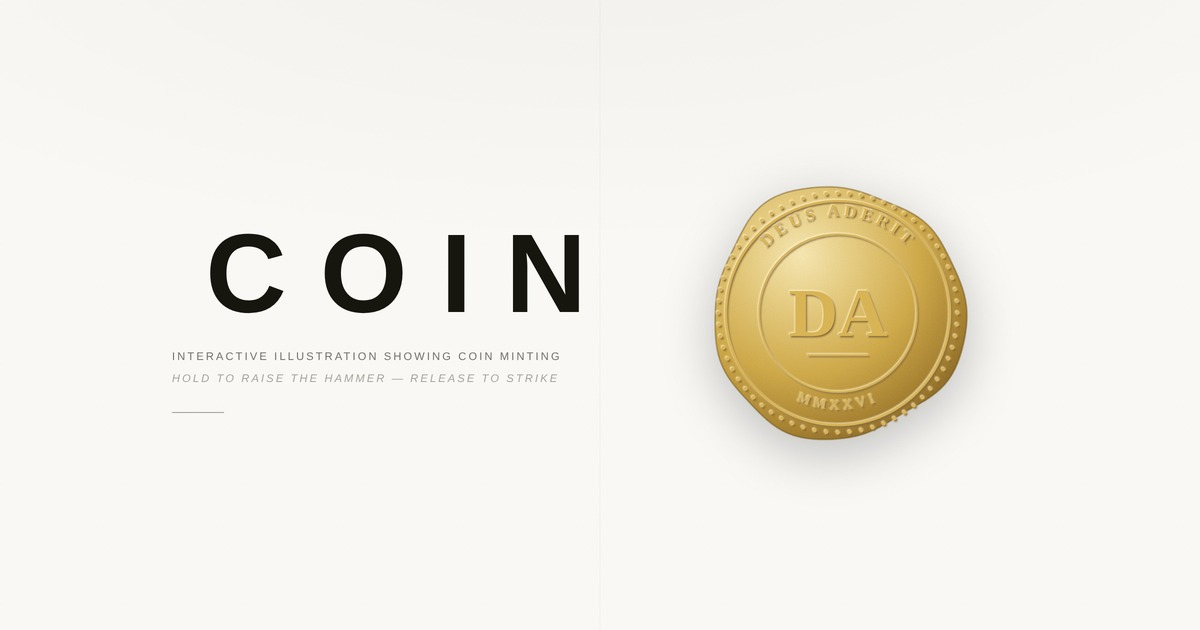
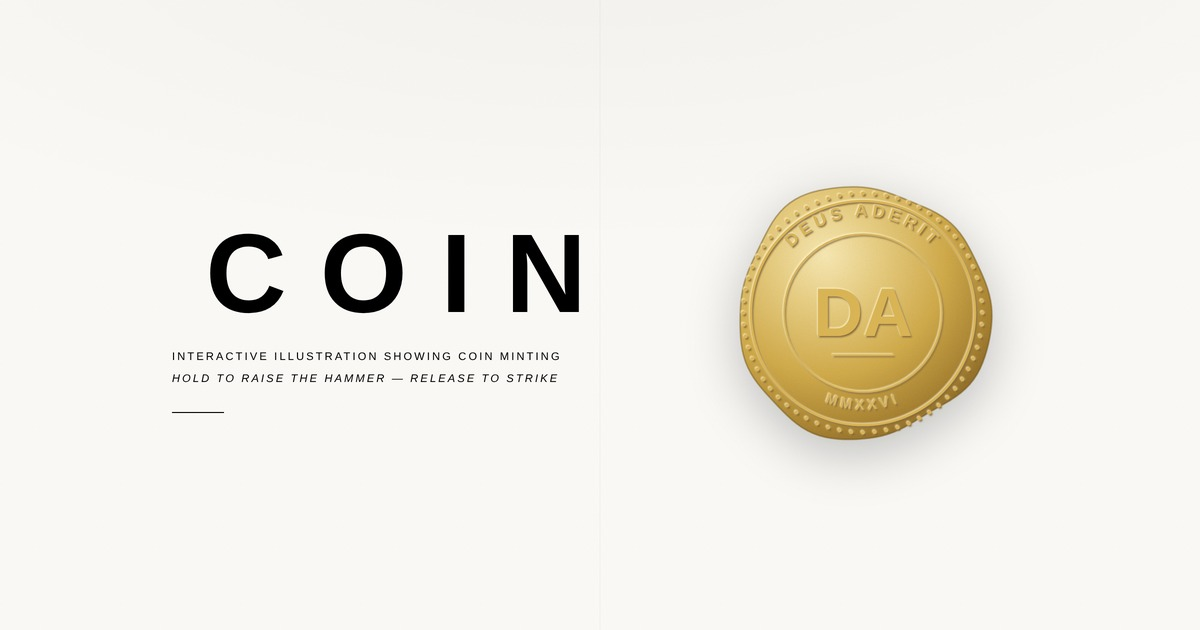
coin: helvetica caps, pure black, no greys

Changed region(s): [[0.5858, 0.2714, 0.8325, 0.7238], [0.1542, 0.5429, 0.4625, 0.6032]]

diff --git a/YELLOW BOX/coin/index.html b/YELLOW BOX/coin/index.html
@@ -19,8 +19,8 @@
 *{box-sizing:border-box;margin:0;padding:0}
 :root{
   --wall:#faf9f6; --wall2:#f2f1ec;
-  --ink:#16160f; --dim:#75736a; --faint:#a8a59c;
-  --line:#16160f;
+  --ink:#000; --dim:#000; --faint:#000;
+  --line:#000;
   --gold-d:#7a5a1c; --gold-m:#d9b455; --gold-h:#fdf3cd;
 }
 html,body{height:100%}
@@ -43,7 +43,7 @@ header{text-align:center;margin-bottom:16px}
 h1{font-size:clamp(46px,9vw,104px);font-weight:700;letter-spacing:.30em;
    text-indent:.30em;line-height:1;margin-bottom:16px}
 .sub{font-size:11px;letter-spacing:.20em;text-transform:uppercase;color:var(--dim);line-height:2}
-.sub em{font-style:italic;color:var(--faint)}
+.sub em{font-style:italic;color:#000}
 .hr{width:52px;height:1px;background:var(--faint);margin:22px auto 0}
 
 /* ---------- layout ---------- */
@@ -61,11 +61,11 @@ h1{font-size:clamp(46px,9vw,104px);font-weight:700;letter-spacing:.30em;
 /* svg primitives */
 .ln{fill:none;stroke:var(--line);stroke-width:1.4;stroke-linejoin:round;stroke-linecap:round}
 .ln.thin{stroke-width:.9}
-.hatch{stroke:var(--line);stroke-width:.55;opacity:.5}
-.lead{stroke:var(--line);stroke-width:.7;opacity:.6;fill:none}
-.lab{fill:var(--ink);font-size:10.5px;letter-spacing:.16em;text-transform:uppercase;
-     font-family:inherit;opacity:.92}
-.tick{fill:var(--ink);opacity:.8}
+.hatch{stroke:#000;stroke-width:.5;opacity:1}
+.lead{stroke:#000;stroke-width:.8;opacity:1;fill:none}
+.lab{fill:#000;font-size:10.5px;letter-spacing:.16em;text-transform:uppercase;
+     font-family:inherit;opacity:1}
+.tick{fill:#000;opacity:1}
 
 #hammer{transform-box:fill-box;transform-origin:88% 62%;
         transition:transform .34s cubic-bezier(.22,.61,.36,1)}
@@ -76,9 +76,9 @@ h1{font-size:clamp(46px,9vw,104px);font-weight:700;letter-spacing:.30em;
 @keyframes spk{0%{opacity:1;transform:scale(.2)}100%{opacity:0;transform:scale(1.25)}}
 
 /* ---------- right column ---------- */
-.panel{border-left:1px solid rgba(22,22,15,.14);padding-left:26px}
+.panel{border-left:1px solid #000;padding-left:26px}
 @media (max-width:900px){.panel{border-left:0;padding-left:0;
-  border-top:1px solid rgba(22,22,15,.14);padding-top:30px}}
+  border-top:1px solid #000;padding-top:30px}}
 @media (max-width:900px){
   .wrap{padding:30px 22px 120px}
   .sub{font-size:10px;letter-spacing:.14em}
@@ -89,29 +89,29 @@ h1{font-size:clamp(46px,9vw,104px);font-weight:700;letter-spacing:.30em;
     margin:0;padding:20px 14px;background:rgba(250,249,246,.94);
     -webkit-backdrop-filter:blur(10px);backdrop-filter:blur(10px);
     box-shadow:0 -6px 26px rgba(0,0,0,.10)}
-  .strike.charging{background:rgba(22,22,15,.09)}
+  .strike.charging{background:#000}
   .acts{margin-top:26px}
   .caption{margin-bottom:40px}
 }
 .plabel{font-size:10px;letter-spacing:.2em;text-transform:uppercase;color:var(--dim);margin-bottom:11px}
 
-input[type=text]{width:100%;background:transparent;border:0;border-bottom:1px solid rgba(22,22,15,.3);
+input[type=text]{width:100%;background:transparent;border:0;border-bottom:1px solid #000;
   color:var(--ink);font-family:inherit;font-size:19px;letter-spacing:.13em;text-transform:uppercase;
   padding:7px 0 9px;outline:none;transition:border-color .25s}
 input[type=text]:focus{border-color:var(--ink)}
 input[type=text]::placeholder{color:var(--faint);letter-spacing:.13em}
 
 /* portrait control */
-.drop{display:block;margin-top:22px;border:1px dashed rgba(22,22,15,.28);padding:16px 14px;text-align:center;
+.drop{display:block;margin-top:22px;border:1px dashed #000;padding:16px 14px;text-align:center;
   cursor:pointer;transition:.22s;font-size:9.5px;letter-spacing:.18em;text-transform:uppercase;color:var(--dim)}
-.drop:hover,.drop.over{border-color:var(--ink);color:var(--ink);background:rgba(22,22,15,.05)}
+.drop:hover,.drop.over{border-color:var(--ink);color:var(--ink);background:transparent}
 .drop input{display:none}
 .pctl{margin-top:14px;display:none}
 .pctl.on{display:block}
 .prow{display:flex;align-items:center;gap:12px;font-size:9.5px;letter-spacing:.18em;
   text-transform:uppercase;color:var(--dim)}
 .prow input[type=range]{flex:1;-webkit-appearance:none;appearance:none;height:2px;
-  background:rgba(22,22,15,.2);outline:none;cursor:pointer}
+  background:rgba(0,0,0,.2);outline:none;cursor:pointer}
 .prow input[type=range]::-webkit-slider-thumb{-webkit-appearance:none;width:12px;height:12px;
   border-radius:50%;background:var(--ink);cursor:pointer}
 .prow input[type=range]::-moz-range-thumb{width:12px;height:12px;border:0;border-radius:50%;background:var(--ink)}
@@ -132,29 +132,29 @@ input[type=text]::placeholder{color:var(--faint);letter-spacing:.13em}
 .meter{margin-top:26px}
 .mrow{display:flex;justify-content:space-between;font-size:9.5px;letter-spacing:.18em;
       text-transform:uppercase;color:var(--dim);margin-bottom:7px}
-.bar{height:2px;background:rgba(22,22,15,.16);position:relative;overflow:hidden}
+.bar{height:7px;border:1px solid #000;background:transparent;position:relative;overflow:hidden}
 .bar i{position:absolute;inset:0 auto 0 0;width:0;background:var(--ink);display:block}
 #force i{transition:width .05s linear}
 #relief i{transition:width .45s cubic-bezier(.2,.8,.2,1)}
 
 .strike{margin-top:26px;width:100%;padding:19px 16px;background:transparent;
-  border:1px solid rgba(22,22,15,.35);color:var(--ink);font-family:inherit;
+  border:1px solid #000;color:var(--ink);font-family:inherit;
   font-size:11px;letter-spacing:.22em;text-transform:uppercase;cursor:pointer;
   transition:.22s;user-select:none;-webkit-user-select:none;touch-action:none}
-.strike:hover{border-color:var(--ink);background:rgba(22,22,15,.05)}
-.strike.charging{background:rgba(22,22,15,.11);border-color:var(--ink)}
-.strike[disabled]{opacity:.4;cursor:default}
+.strike:hover{border-color:var(--ink);background:transparent}
+.strike.charging{background:#000;border-color:var(--ink)}
+.strike[disabled]{cursor:default;background:#000;color:#faf9f6;border-color:#000}
 
 .acts{margin-top:16px;display:flex;gap:10px}
-.acts button{flex:1;padding:13px 10px;background:transparent;border:1px solid rgba(22,22,15,.22);
+.acts button{flex:1;padding:13px 10px;background:transparent;border:1px solid #000;
   color:var(--dim);font-family:inherit;font-size:9.5px;letter-spacing:.18em;text-transform:uppercase;
   cursor:pointer;transition:.22s}
-.acts button:hover{color:var(--ink);border-color:rgba(22,22,15,.5)}
-.hint{margin-top:16px;font-size:10px;letter-spacing:.1em;color:var(--faint);line-height:1.9}
+.acts button:hover{color:var(--ink);border-color:rgba(0,0,0,.5)}
+.hint{margin-top:16px;font-size:9.5px;letter-spacing:.14em;text-transform:uppercase;color:#000;line-height:2}
 
 .caption{margin-top:54px;text-align:center;font-size:10.5px;letter-spacing:.17em;
   text-transform:uppercase;color:var(--dim);line-height:2.1}
-.caption em{font-style:italic;color:var(--faint);text-transform:none;letter-spacing:.06em}
+.caption em{font-style:italic;color:#000;text-transform:uppercase;letter-spacing:.14em}
 
 .done{opacity:0;transition:opacity .5s;font-size:10px;letter-spacing:.24em;
   text-transform:uppercase;color:var(--ink);margin-top:14px}
@@ -182,7 +182,7 @@ input[type=text]::placeholder{color:var(--faint);letter-spacing:.13em}
         <line x1="0" y1="0" x2="0" y2="6" class="hatch"/>
       </pattern>
       <pattern id="steel2" width="3.4" height="3.4" patternUnits="userSpaceOnUse" patternTransform="rotate(48)">
-        <line x1="0" y1="0" x2="0" y2="3.4" class="hatch" opacity=".75"/>
+        <line x1="0" y1="0" x2="0" y2="3.4" class="hatch"/>
       </pattern>
     </defs>
 
@@ -190,13 +190,13 @@ input[type=text]::placeholder{color:var(--faint);letter-spacing:.13em}
     <g id="hammer">
       <!-- handle -->
       <path class="ln" d="M347 84 L497 27 L503 44 L353 101 Z"/>
-      <rect x="360" y="60" width="140" height="26" fill="url(#wood)" opacity=".5"
+      <rect x="360" y="60" width="140" height="26" fill="url(#wood)"
             transform="rotate(-21 360 60)"/>
       <!-- head -->
       <path class="ln" d="M252 62 L350 62 L350 120 L252 120 Z"/>
       <path class="ln" d="M252 62 L262 55 L360 55 L350 62"/>
       <path class="ln" d="M350 62 L360 55 L360 113 L350 120"/>
-      <rect x="256" y="66" width="90" height="50" fill="url(#steel)" opacity=".55"/>
+      <rect x="256" y="66" width="90" height="50" fill="url(#steel)"/>
       <!-- striking face -->
       <path class="ln thin" d="M258 116 L344 116"/>
     </g>
@@ -214,12 +214,12 @@ input[type=text]::placeholder{color:var(--faint);letter-spacing:.13em}
       <ellipse class="ln" cx="300" cy="152" rx="33" ry="9"/>
       <path class="ln" d="M267 152 L267 366"/>
       <path class="ln" d="M333 152 L333 366"/>
-      <rect x="269" y="156" width="62" height="206" fill="url(#steel2)" opacity=".42"/>
-      <path class="ln thin" d="M283 160 L283 356" opacity=".45"/>
+      <rect x="269" y="156" width="62" height="206" fill="url(#steel2)"/>
+      <path class="ln thin" d="M283 160 L283 356"/>
       <ellipse class="ln" cx="300" cy="366" rx="33" ry="9"/>
       <!-- reverse die band -->
       <path class="ln thin" d="M267 334 L333 334"/>
-      <rect x="269" y="336" width="62" height="28" fill="url(#steel)" opacity=".8"/>
+      <rect x="269" y="336" width="62" height="28" fill="url(#steel)"/>
 
       <!-- tongs / holder -->
       <path class="ln" d="M200 246 L268 252 L268 272 L200 266 Z"/>
@@ -237,7 +237,7 @@ input[type=text]::placeholder{color:var(--faint);letter-spacing:.13em}
     <g>
       <ellipse class="ln" cx="300" cy="404" rx="30" ry="8"/>
       <path class="ln" d="M270 404 L270 436 M330 404 L330 436"/>
-      <rect x="272" y="408" width="56" height="28" fill="url(#steel)" opacity=".5"/>
+      <rect x="272" y="408" width="56" height="28" fill="url(#steel)"/>
       <path class="ln" d="M270 436 A30 8 0 0 0 330 436"/>
     </g>
 
@@ -245,8 +245,8 @@ input[type=text]::placeholder{color:var(--faint);letter-spacing:.13em}
     <g>
       <path class="ln" d="M196 440 L404 440 L376 458 L224 458 Z"/>
       <path class="ln" d="M224 458 L376 458 L376 536 L224 536 Z"/>
-      <rect x="227" y="461" width="146" height="72" fill="url(#wood)" opacity=".7"/>
-      <path class="ln thin" d="M224 536 L212 548 L388 548 L376 536" opacity=".7"/>
+      <rect x="227" y="461" width="146" height="72" fill="url(#wood)"/>
+      <path class="ln thin" d="M224 536 L212 548 L388 548 L376 536"/>
     </g>
 
     <!-- ---- LABELS ---- -->
@@ -441,13 +441,13 @@ function buildFace(svg,name,side){
 
   const legend=(S==="o") ? (name||"UNSTRUCK").toUpperCase() : "VICTORIA";
   const t1=el("text",{fill:GM,stroke:"none","font-size":13.5,"letter-spacing":3.2,
-    "font-family":"Georgia,'Times New Roman',serif","font-weight":"700"});
+    "font-family":"Helvetica Neue,Helvetica,Arial,sans-serif","font-weight":"700"});
   const tp1=el("textPath",{startOffset:"50%","text-anchor":"middle"});
   tp1.setAttribute("href","#tp"+S); tp1.textContent=legend.slice(0,18);
   t1.appendChild(tp1); dev.appendChild(t1);
 
   const t2=el("text",{fill:GM,stroke:"none","font-size":11,"letter-spacing":3,
-    "font-family":"Georgia,'Times New Roman',serif","font-weight":"700"});
+    "font-family":"Helvetica Neue,Helvetica,Arial,sans-serif","font-weight":"700"});
   const tp2=el("textPath",{startOffset:"50%","text-anchor":"middle"});
   tp2.setAttribute("href","#bp"+S); tp2.textContent = S==="o" ? YEAR : "CONOB";
   t2.appendChild(tp2); dev.appendChild(t2);
@@ -455,7 +455,7 @@ function buildFace(svg,name,side){
   if(S==="o"){
     if(!portrait){
       const mono=el("text",{x:0,y:18,fill:GM,stroke:"none","font-size":54,"text-anchor":"middle",
-        "font-family":"Georgia,'Times New Roman',serif","font-weight":"700"});
+        "font-family":"Helvetica Neue,Helvetica,Arial,sans-serif","font-weight":"700"});
       mono.textContent=initials(name); dev.appendChild(mono);
       dev.appendChild(el("path",{d:"M -24 33 L 24 33","stroke-width":1.1}));
     }
